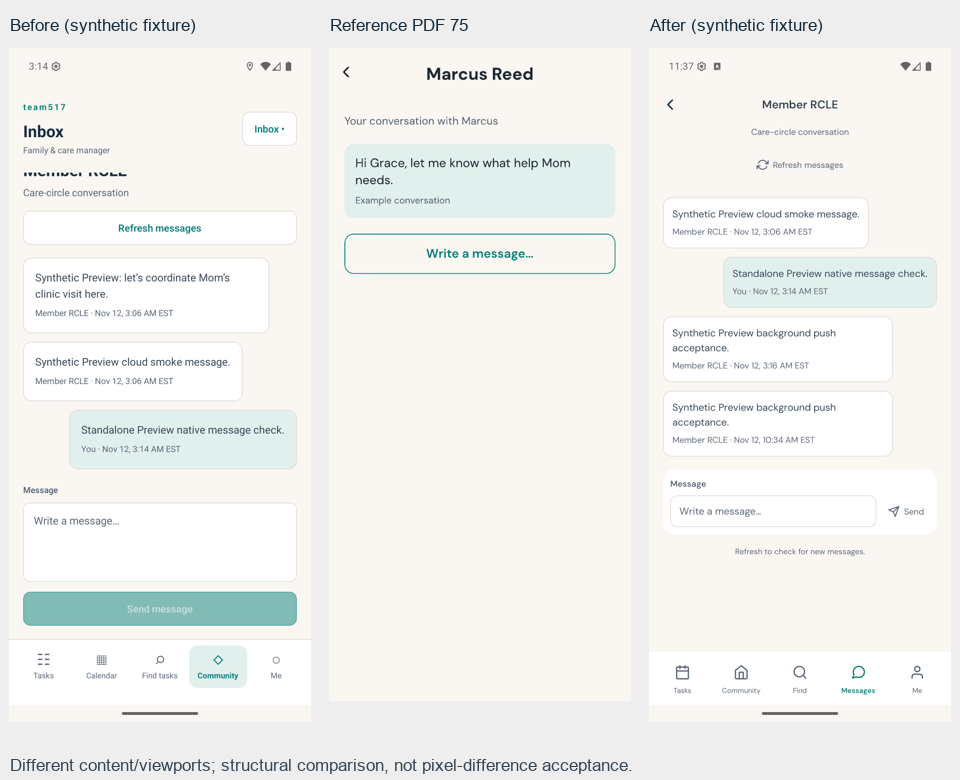
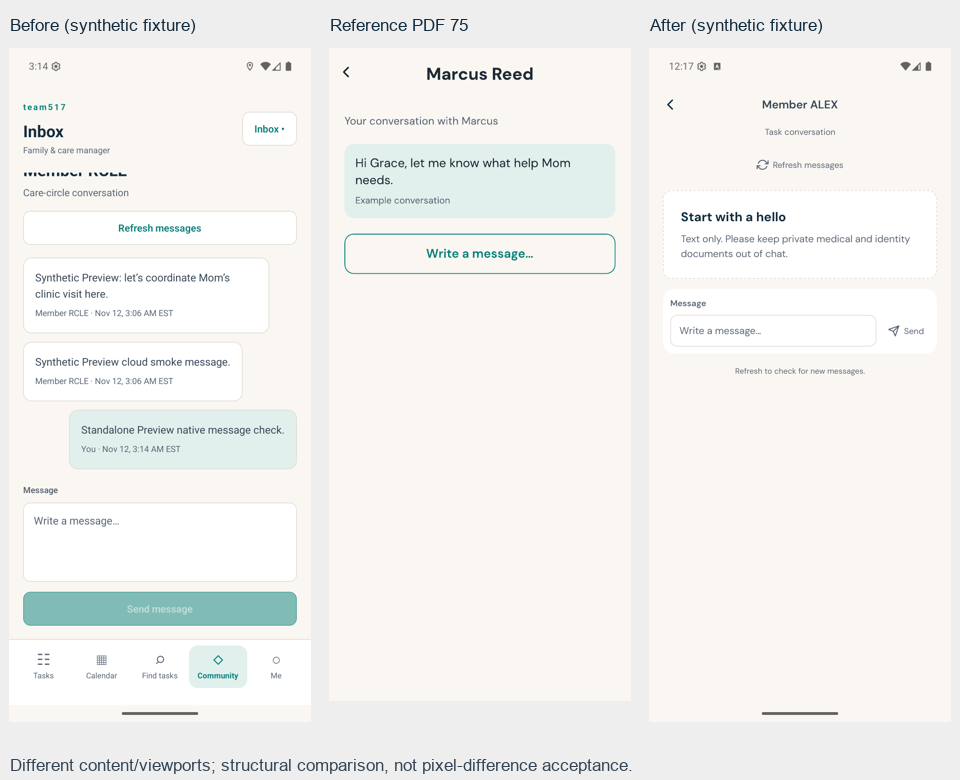
Focus detail navigation and task conversation presentation

diff --git a/apps/mobile/src/components/ConversationModal.tsx b/apps/mobile/src/components/ConversationModal.tsx
@@ -1,0 +1,19 @@
+import React, { useCallback, useRef } from 'react';
+import { KeyboardAvoidingView, Modal, ScrollView, View } from 'react-native';
+import { SafeAreaProvider, SafeAreaView, initialWindowMetrics } from 'react-native-safe-area-context';
+import { ConversationScreen } from '../screens/MessagingScreen';
+import { AppHeader } from './AppChrome';
+import { ScreenHeaderProvider, useHeaderRegistry } from './ScreenHeader';
+import { ScrollResetContext } from '../navigation/scroll';
+import { theme as t } from '../theme';
+// A task/circle entry must open a focused conversation, not insert a full chat
+// inside its Offer/profile card. The underlying task coordinator stays mounted.
+export function ConversationModal({ id, close }: { id: string; close: () => void }) {
+  const { register, header } = useHeaderRegistry();
+  const scroll = useRef<ScrollView>(null);
+  const resetScroll = useCallback(() => scroll.current?.scrollTo({ y: 0, animated: false }), []);
+  return <Modal visible animationType="slide" onRequestClose={() => { if (!header?.disabled) close(); }}><SafeAreaProvider initialMetrics={initialWindowMetrics}><ScreenHeaderProvider value={register}><SafeAreaView style={{ flex: 1, backgroundColor: t.colors.canvas }}>
+    <AppHeader title="Conversation" detail={header ?? { title: 'Conversation', back: close }} unread={false} />
+    <KeyboardAvoidingView style={{ flex: 1 }} behavior="padding"><ScrollView ref={scroll} nestedScrollEnabled keyboardShouldPersistTaps="handled" keyboardDismissMode="on-drag" contentContainerStyle={{ flexGrow: 1, paddingHorizontal: t.screenPadding, paddingBottom: 24 }}><ScrollResetContext.Provider value={resetScroll}><View style={{ width: '100%', maxWidth: t.contentWidth, alignSelf: 'center', gap: 14 }}><ConversationScreen id={id} back={close} /></View></ScrollResetContext.Provider></ScrollView></KeyboardAvoidingView>
+  </SafeAreaView></ScreenHeaderProvider></SafeAreaProvider></Modal>;
+}

diff --git a/apps/mobile/src/screens/MessageEntry.tsx b/apps/mobile/src/screens/MessageEntry.tsx
@@ -2,10 +2,10 @@ import React, { useRef, useState } from 'react';
 import * as api from '../api/client';
 import { Button, ErrorState } from '../components/ui';
 import { friendlyError } from '../utils/presentation';
-import { ConversationScreen } from './MessagingScreen';
+import { ConversationModal } from '../components/ConversationModal';
 export function MessageEntry({ taskId, careContextId, otherUserId }: { taskId?: string; careContextId?: string; otherUserId?: string }) {
   const [id, setId] = useState<string | null>(null), [busy, setBusy] = useState(false), [error, setError] = useState(''); const lock = useRef(false);
-  if (id) return <ConversationScreen key={id} id={id} backLabel={taskId ? 'Back to task' : 'Back to circle'} back={() => setId(null)} />;
+  if (id) return <ConversationModal key={id} id={id} close={() => setId(null)} />;
   return <><Button title="Message" disabled={busy} onPress={() => {
     if (lock.current) return; lock.current = true; setBusy(true); setError('');
     const start = taskId ? api.startTaskConversation(taskId, otherUserId) : api.getOrCreateConversation({ scope: 'CARE_CONTEXT', careContextId: careContextId!, otherUserId: otherUserId! });

diff --git a/apps/mobile/App.tsx b/apps/mobile/App.tsx
@@ -104,7 +104,7 @@ function AppContent() {
         </View></ScrollResetContext.Provider>
       </ScrollView>
     </KeyboardAvoidingView>
-    {user && profile && <BottomNavigation active={tab} helper={helperMode} disabled={busy} messageUnread={messageUnread} change={navigate} />}
+    {user && profile && !header?.back && <BottomNavigation active={tab} helper={helperMode} disabled={busy} messageUnread={messageUnread} change={navigate} />}
   </SafeAreaView></ScreenHeaderProvider>;
 }
 const s = StyleSheet.create({ safe: { flex: 1, backgroundColor: t.colors.canvas }, flex: { flex: 1 }, scroll: { flexGrow: 1, paddingHorizontal: t.screenPadding, paddingBottom: 32 }, content: { width: '100%', maxWidth: t.contentWidth, alignSelf: 'center', gap: 14 } });

diff --git a/docs/design-overhaul.md b/docs/design-overhaul.md
@@ -5,7 +5,7 @@ This change extends the Tasks/navigation and Calendar work across the existing p
 ## Implemented
 
 - Locally bundled DM Sans regular/medium/semibold/bold; compact shared controls, thinner cards, horizontal information rows, real avatars as initials, chips, action rows, menu rows, disclosures and status panels. Feather remains an explicitly approximate icon set. No remote font request at runtime.
-- Focused back/title headers replace the unrelated global home heading on Task, Offer, assistant, conversation, notification, verification and resource/post detail screens. Root role/navigation destinations remain intact.
+- Focused back/title headers replace the unrelated global home heading on Task, Offer, assistant, conversation, notification, verification and resource/post detail screens. Root role/navigation destinations remain intact. Main tabs are shown on root screens; focused back/title pages (Task, editor, Offer, conversation and role picker) use the back path rather than duplicating the root tabs.
 - Auth has a large welcome heading and a single uncluttered form. It keeps real email/password authentication rather than pretending that the prototype OTP flow exists.
 - Me is a compact account/settings list. Role switching opens a dedicated two-card/multi-role page using actual roles. Only lastActiveRole changes; it grants no authorization.
 - Post/Edit Task uses grouped fields, privacy guidance, a private-arrival disclosure, location/priority/visibility/compensation chips, primary publish and secondary save. Android uses native date and time dialogs via Expo-compatible @react-native-community/datetimepicker 8.6.0. Cancellation does not write a value. Manual form state survives opening/closing the assistant because it remains owned by the editor.
@@ -15,7 +15,7 @@ This change extends the Tasks/navigation and Calendar work across the existing p
 - Offers show compact summaries first, then a focused individual Offer with actual verification, optional actual rating, message, selection and review/message actions. No fabricated profile information, hourly rates or payment/PIN flow.
 - Assignment keeps all existing state-dependent actions, permission checks and privileged-data epoch/background clearing. Next-action guidance is prominent; history, timeline and reviews are grouped. Completion/review rules are unchanged.
 - Discovery shares the same safe API/read model for List and the honest Map placeholder. Filter controls are compact, task cards are tappable, detail separates public information from approximate location and offering. Exact private addresses are not fetched for discovery.
-- Helper work uses compact tappable task cards and focused arrangement detail. Inbox uses participant/preview rows; conversations use bubbles, nested history scrolling and an inline input/send composer. Existing paging, read-only behavior, retry ID and refresh semantics remain intact.
+- Helper work uses compact tappable task cards and focused arrangement detail. Inbox uses participant/preview rows; conversations use bubbles, nested history scrolling and an inline input/send composer. Existing paging, read-only behavior, retry ID and refresh semantics remain intact. Task/circle Message entries now open a focused conversation modal instead of inserting the chat inside a parent card; closing restores the same coordinator state. This path was exercised natively through a real synthetic active-Offer relationship without sending a message.
 - Community uses author rows, filter chips, compact linked-resource previews and Like/Comment/Share action rows. No fabricated media attachments. Persistent Notifications use compact rows; timeline uses a connected compact list; review ratings use a horizontal choice group. Circle/location screens inherit the shared controls and compact grouping.
 
 ## Native-discovered defect
@@ -30,7 +30,7 @@ MEDIUM: Android Back from focused Offer details skipped the Offer list because p
 | Data and identity | Synthetic account names, dates, task counts and pseudonymous helper labels differ from the prototype; no invented names, reviews, balances or profile data. |
 | Future prototype screens | Maps/nearby helpers, point wallet/payment/PIN, real KYC, OTP/onboarding expansion and attachment media remain outside the existing product. They are not fake working screens. |
 | Native scope | Android 16/API36 Pixel_9_Pro emulator only. No physical phone, iOS, tablet, large-font or TalkBack acceptance this pass. |
-| Keyboard | Text entry exercised, but Android's handwriting/stylus onboarding and floating toolbar intercepted gestures. Ordinary software-keyboard overlap is still pending and is not marked passed. Native date/time selection and long-form scrolling did pass. |
+| Keyboard | Text entry exercised, but Android's handwriting/stylus onboarding and floating toolbar intercepted gestures. The floating Gboard keyboard was subsequently opened through its toolbar menu; draft text and Send remained visible. Docked-keyboard overlap across forms is still pending and is not marked passed. Native date/time selection and long-form scrolling did pass. |
 | AI review | Entry rendered natively; proposed-field review is implemented/typechecked and LOCAL mock HTTP regression passes. A real/native cloud suggestion is not claimed because the provider is disabled. |
 | Full lifecycle | Existing completed Assignment and current Offers rendered; this pass did not repeat native selection/confirmation/start/completion/review submission or mutate backup Offers. Full automated lifecycle regressions passed. |
 | Rare states | New-account initialization, create-circle submit, location creation, all error/loading variants and termination-time messaging/location changes have not all been repeated natively in this visual pass. Earlier acceptance and API regressions are separate evidence. |
@@ -44,3 +44,5 @@ Node 22.23.4 / Java21: full suite passed (22 backend unit, 58 client at the inte
 New dependencies are DM Sans 0.4.2 and native datetimepicker 8.6.0; Expo font was already used in batch 1. Root npm audit: 28 advisories (1 low, 20 moderate, 7 high, 0 critical). No broad audit-fix upgrade was applied. Frontend business-Firestore import scan has zero matches. Secret preflight reports no findings; no credentials or APKs are committed.
 
 APK: artifacts/android/team517-preview.apk. Install as an update to edu.cornelltech.team517; uninstalling is unnecessary. The [native evidence matrix](native-evidence/2026-11-12-design-overhaul/README.md) records what actually rendered and the final artifact hash. This remains a development Preview, not a production distribution.
+
+Main overhaul commit c85287b hosted Node 22 CI passed: [run](https://github.com/KuoFuKai/team517/actions/runs/43266289770). Final focused-navigation/modal changes passed the same focused 61-test client suite, typecheck and Hermes export; no backend changes.

diff --git a/docs/native-evidence/2026-11-12-design-overhaul/README.md b/docs/native-evidence/2026-11-12-design-overhaul/README.md
@@ -1,8 +1,8 @@
 # Android visual-overhaul evidence — November 12, 2026
 
-Actual Pixel_9_Pro / emulator-5554 state device, Android16/API36 x86_64, 1280×2856. Real non-production team517-dev with synthetic accounts/content. Standalone Hermes APK, no Metro. Final installed APK: **40,852,436 bytes**, SHA256 **b53811a1e693f0e878b6bb9dbebe959b623cf7de86c65b1a3d5d517dfc652835**.
+Actual Pixel_9_Pro / emulator-5554 state device, Android16/API36 x86_64, 1280×2856. Real non-production team517-dev with synthetic accounts/content. Standalone Hermes APK, no Metro. Final installed APK: **40,853,564 bytes**, SHA256 **4ca8318c4f5b015c631d13080ff81e593e78d1d05d679a45ebfed5b2922aa119**.
 
-Evidence was collected during iterative APK rebuilds. final-* captures show the unchanged relevant layouts before final navigation/assistant refinement; native scheduling captures use 1fd87f5; backfix-* and release-ai-* use the final hash above. They are not all screenshots of a single build, and intermediate keyboard/system-dialog evidence is explicitly labelled. No credential-filled login screenshot is included.
+Evidence was collected during iterative APK rebuilds. final-* captures show the unchanged relevant layouts before final navigation/assistant refinement; native scheduling captures use 1fd87f5; backfix-* and release-ai-* use b53811a1; package-* captures use the final hash above. The final refinement hides root tabs on focused pages and opens task/circle conversations as a focused modal. They are not all screenshots of a single build, and intermediate keyboard/system-dialog evidence is explicitly labelled. No credential-filled login screenshot is included.
 
 [Overview](overview.png) · [Discovery comparison](compare-discovery.png) · [Community comparison](compare-community.png) · [Conversation comparison](compare-conversation.png) · [Task comparison](compare-task-detail.png). Before/reference/after images have different content, roles where indicated and device frames; no matching percentage is claimed.
 
@@ -17,6 +17,8 @@ Evidence was collected during iterative APK rebuilds. final-* captures show the 
 | AI | Final focused notes/transcript entry rendered; hardware Back returned to editor with saved task fields present | [AI](release-ai-entry.png), [Back](release-ai-back-preserved.png) |
 | Owner Task | Actual HAS_OFFERS, summary, authorized synthetic location, private disclosure and existing CTA rendered | [Task](backfix-task.png), [actions](release-task-actions.png) |
 | Offers | Two ACTIVE synthetic offers; focused detail, real verification, no fabricated rating; selection control rendered, not submitted | [List](backfix-offers.png), [detail](backfix-offer-detail.png) |
+| Task-entry conversation | Actual Offer → Message opened focused chat without the surrounding card; hardware Back restored the same Offer detail | [Chat](package-task-conversation.png), [Return](package-conversation-return.png) |
+| Final focused navigation | Root tabs absent on Task/Offer/chat inner pages, retained at roots | [Task](package-task.png), [Offers](package-offers.png) |
 | Android Back defect | Before fix detail→Task skipped list. Final fix detail→Offers→Task→Task list tested | [Returned to Offers](backfix-returned-offers.png) |
 | Helper work | Actual completed synthetic task displayed after Helper login; no native lifecycle mutation this pass | [Work](final-helper-login.png) |
 | Discovery | Verified Alex saw populated list/detail; manager-as-helper empty state also exercised; no exact/private address in Helper detail | [List](final-discovery.png), [detail](final-discovery-detail.png) |
@@ -27,8 +29,10 @@ Evidence was collected during iterative APK rebuilds. final-* captures show the 
 | Verification | Actual VERIFIED status rendered; no real KYC | [Verification](final-verification.png) |
 | Community | Existing resource post, compact resource preview, author metadata and actions rendered; detail/comments opened during iteration | [Feed](final-community.png) |
 | Messaging | Real existing Inbox/conversation; history scrolled, draft text entered without sending | [Conversation](final-conversation.png) |
-| Keyboard limitation | Android Try out your stylus system tutorial intercepted normal typing/gestures. Cancel/explicit touchscreen gestures allowed other work. Ordinary keyboard-overlap acceptance remains pending | [System tutorial](final-message-keyboard.png) |
+| Keyboard limitation | Android Try out your stylus system tutorial intercepted normal typing/gestures. Cancel/explicit touchscreen gestures allowed other work. Floating Gboard was subsequently opened via its toolbar menu, with draft entry and Send visible; docked keyboard-overlap acceptance across forms remains pending | [System tutorial](final-message-keyboard.png) |
 
 No native pass claimed for all creation/error/loading states, native AI review result, every Assignment transition, native read-only relationship termination, stale-location revocation, physical-phone/iOS, large-font or TalkBack behavior. Backend/API regressions are separate from these rendered-screen observations. Earlier privacy/native lifecycle acceptance remains historical evidence; this UI pass does not replace it.
 
 Issues: no new observed BLOCKER/HIGH; MEDIUM Back-order bug fixed and retested. LOW original icon/asset/precise spacing differences remain under the approved PDF approximation. Full Figma visual acceptance remains open until those differences and the pending native checks are reviewed.
+
+Final Inbox screenshot: [Inbox](release-inbox.png). [Floating Gboard](software-keyboard.png) is a real OS keyboard, not an application keyboard. No Windows/device security or networking settings were changed. Main overhaul hosted CI passed at [c85287b](https://github.com/KuoFuKai/team517/actions/runs/43266289770); focused navigation follow-up CI is reported separately.

diff --git a/docs/validation.md b/docs/validation.md
@@ -1,6 +1,6 @@
 # Sprint 7B.1 Preview cloud/native follow-up — November 12, 2026
 
-November 12 whole-app UI overhaul: [implementation, native evidence and remaining visual differences](design-overhaul.md). Shared typography, focused headers, forms/native scheduling, Offers, Discovery, account/roles, Community and Messaging were reworked; exact Figma parity and ordinary software-keyboard acceptance are not claimed. Earlier batch/test notes below remain historical.
+November 12 whole-app UI overhaul: [implementation, native evidence and remaining visual differences](design-overhaul.md). Shared typography, focused headers, forms/native scheduling, Offers, Discovery, account/roles, Community and Messaging were reworked; exact Figma parity and docked software-keyboard acceptance are not claimed. Earlier batch/test notes below remain historical.
 
 Calendar UI batch 2: full Node 22 suite passed with **22 backend unit / 55 client / 92 integration**, typecheck, first-run smoke, default/AI-mock HTTP and Hermes. Final clipping refinement passed focused checks/export/native recheck. Month/day navigation, Task opening/return, empty month and date-mode restoration are scoped in the [report](design-alignment-batch2.md); native invalid-date submission and physical-phone acceptance are not claimed. No backend changes. Batch 1 hosted CI was successful; batch 2 CI is separate.
 

diff --git a/docs/native-acceptance.md b/docs/native-acceptance.md
@@ -1,6 +1,6 @@
 # Sprint 7B.1 standalone cloud acceptance — November 12, 2026
 
-November 12 whole-app UI overhaul: [implementation, native evidence and remaining visual differences](design-overhaul.md). Shared typography, focused headers, forms/native scheduling, Offers, Discovery, account/roles, Community and Messaging were reworked; exact Figma parity and ordinary software-keyboard acceptance are not claimed. Earlier batch/test notes below remain historical.
+November 12 whole-app UI overhaul: [implementation, native evidence and remaining visual differences](design-overhaul.md). Shared typography, focused headers, forms/native scheduling, Offers, Discovery, account/roles, Community and Messaging were reworked; exact Figma parity and docked software-keyboard acceptance are not claimed. Earlier batch/test notes below remain historical.
 
 Calendar follow-up: [UI batch 2](design-alignment-batch2.md) adds actual API 36 month/day grid, task markers/rows, Task/Assignment opening and preserved date, next/empty month and selected/all-date toggle. Circle clipping was fixed/re-rendered. Native invalid-input submission was interrupted by Android stylus onboarding and remains unclaimed; deterministic validation/DST tests passed. Not a full native or physical acceptance rerun.
 

diff --git a/README.md b/README.md
@@ -1,6 +1,6 @@
 # team517
 
-November 12 whole-app UI overhaul: [implementation, native evidence and remaining visual differences](docs/design-overhaul.md). Shared typography, focused headers, forms/native scheduling, Offers, Discovery, account/roles, Community and Messaging were reworked; exact Figma parity and ordinary software-keyboard acceptance are not claimed. Earlier batch/test notes below remain historical.
+November 12 whole-app UI overhaul: [implementation, native evidence and remaining visual differences](docs/design-overhaul.md). Shared typography, focused headers, forms/native scheduling, Offers, Discovery, account/roles, Community and Messaging were reworked; exact Figma parity and docked software-keyboard acceptance are not claimed. Earlier batch/test notes below remain historical.
 
 UI alignment batch 2: Tasks now has a functional month grid, marked dates, compact daily rows and bounded month/custom-range queries with local-time/DST handling. The [Calendar report](docs/design-alignment-batch2.md) records the new APK, 55 client tests and actual API 36 evidence. Batch 1 was pushed at `aaf7297` and hosted CI passed; broader form/Offer/Assignment visual alignment remains in progress.
 

diff --git a/docs/figma-alignment-plan.md b/docs/figma-alignment-plan.md
@@ -1,6 +1,6 @@
 # Figma alignment audit and implementation plan — November 12, 2026
 
-November 12 whole-app UI overhaul: [implementation, native evidence and remaining visual differences](design-overhaul.md). Shared typography, focused headers, forms/native scheduling, Offers, Discovery, account/roles, Community and Messaging were reworked; exact Figma parity and ordinary software-keyboard acceptance are not claimed. Earlier batch/test notes below remain historical.
+November 12 whole-app UI overhaul: [implementation, native evidence and remaining visual differences](design-overhaul.md). Shared typography, focused headers, forms/native scheduling, Offers, Discovery, account/roles, Community and Messaging were reworked; exact Figma parity and docked software-keyboard acceptance are not claimed. Earlier batch/test notes below remain historical.
 
 Batch 2: [Calendar month grid/daily agenda](design-alignment-batch2.md) now completes that missing presentation slice using existing APIs. Broader body-screen work remains planned. Batch 1 publication at `aaf7297` was verified and hosted CI passed.
 

diff --git a/docs/android-preview.md b/docs/android-preview.md
@@ -1,6 +1,6 @@
 # Android Preview — Sprint 7B.1
 
[2 lines of base64/hex data omitted]
 
[1 lines of base64/hex data omitted]
 
